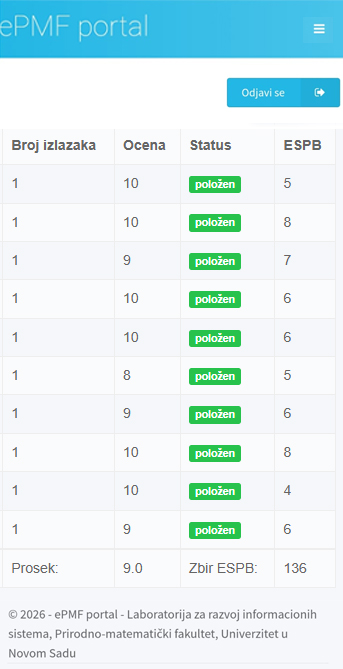
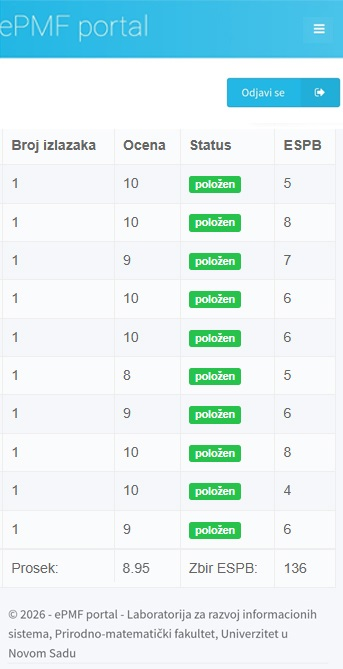
manojlove zamerke

diff --git a/index.html b/index.html
@@ -71,7 +71,7 @@
             </video>
             <div class="hero-content">
                 <h1 class="hero-title">Časovi matematike najvišeg kvaliteta.</h1>
-                <p class="hero-subtitle">Privatni časovi sa najboljim studentima PMF-a u Novom Sadu.</p>
+                <p class="hero-subtitle">Privatni časovi sa studentima PMF-a u Novom Sadu.</p>
                 <a href="#kontakt" class="btn-primary">Zakaži čas</a>
             </div>
             <a href="#kontakt" class="scroll-chevron" aria-label="Idi na kontakt">
@@ -140,11 +140,12 @@
 
                 <div class="about-philosophy">
                     <h3>Naša filozofija</h3>
-                    <p>Ocena nije uvek savršeno merilo znanja, ali jeste konzistentan način da se znanje pretvori u
-                        broj. Zato kod nas časove drže isključivo studenti sa prosekom 9.0 i više, takmičari i najbolji
-                        u svojim generacijama.</p>
-                    <p>Kada vas uče ljudi koji su došli od nule do vrha, koji znaju svaki korak tog puta, možete
-                        očekivati da i vaše ocene konzistentno rastu.</p>
+                    <p>Verujemo da uspeh nije stvar talenta, već rada, istrajnosti i pravog usmerenja. Znanje se ne
+                        gradi preko noći, već korak po korak, kroz razumevanje, vežbu i kontinuirani trud.</p>
+                    <p>Zato naši časovi nisu samo objašnjavanje zadataka, već proces u kome učenik uči kako da
+                        razmišlja, kako da pristupi problemu i kako da bude siguran u svoje znanje.</p>
+                    <p>Ne obećavamo čuda preko noći. Obećavamo sistem, posvećenost i podršku.</p>
+                    <p>A kada se trud spoji sa dobrim vođstvom - rezultati dolaze prirodno.</p>
                 </div>
 
                 <!-- profili tutora -->
@@ -157,16 +158,15 @@
                         </div>
                         <h4>Manojlo Stanarević</h4>
                         <span class="gpa-badge" data-proof="manojlo_uspeh.jpg" role="button" tabindex="0"
-                            aria-label="Prikaži akademske rezultate">Prosek: 9.0</span>
+                            aria-label="Prikaži akademske rezultate">Prosek: 8.95</span>
                         <p class="tutor-title">Student treće godine PMF-a, smer Master profesor matematike</p>
                         <div class="tutor-bio">
                             <p>Manojlo je student treće godine Prirodno-matematičkog fakulteta u Novom Sadu. Tokom
-                                studija ostvario je izuzetne akademske rezultate i pokazao visoku posvećenost
-                                matematici. Posebno se istakao već na prvoj godini, kada je sa najvišim ocenama završio
-                                dva semestra u periodu predviđenom za jedan, uprkos tome što je prethodno završio
-                                stručnu srednju školu u kojoj matematika nije bila u fokusu nastavnog programa.</p>
-                            <p>Iskustvo u radu sa učenicima stekao je kroz višegodišnje držanje privatnih časova, kao i
-                                kroz angažman u obrazovnim institucijama.</p>
+                                studija kontinuirano je pokazivao posvećenost matematici i stabilne akademske rezultate.
+                                Već na prvoj godini uspešno je savladao gradivo tri semestra, iako je prethodno završio
+                                stručnu srednju školu u kojoj matematika nije bila u užem fokusu.</p>
+                            <p>Iskustvo u radu sa učenicima stekao je kroz mnogobrojno držanje privatnih časova, kao i
+                                kroz rad u obrazovnim institucijama.</p>
                         </div>
                         <div class="tutor-details">
                             <p><strong>Lokacija:</strong> Novi Sad</p>
@@ -328,7 +328,7 @@
                 <h2 class="section-title">Kontakt</h2>
 
                 <div class="contact-inner">
-                    <p>Pozovite nas ili pošaljite poruku</p>
+                    <p>Pozovite nas ili pošaljite poruku.</p>
 
                     <a href="tel:+381643681470" class="contact-phone">+381 64 368 1470</a>
 
@@ -339,10 +339,7 @@
                             Pozovite
                         </a>
 
-                        <a href="viber://chat?number=%2B381643681470" class="btn-outline">
-                            <img src="viber.png" alt="Viber" class="contact-icon">
-                            Viber
-                        </a>
+
 
                         <a href="https://wa.me/381643681470" class="btn-outline" target="_blank"
                             rel="noopener noreferrer">
@@ -382,7 +379,7 @@
     <!-- footer -->
     <footer class="site-footer">
         <div class="container">
-            <p class="footer-quote">&ldquo;Vaspitavajte decu, vaspitavajte i sebe.&rdquo; - Sveti Sava</p>
+            <p class="footer-quote">&ldquo;I poznaćete istinu i istina će vas osloboditi.&rdquo; - Isus Hrist</p>
             <hr>
             <p class="footer-copy">&copy; 2026 Časovi matematike Novi Sad. Sva prava zadržana.</p>
             <p class="footer-credit">Sajt dizajnirao: Marko Nedić</p>
